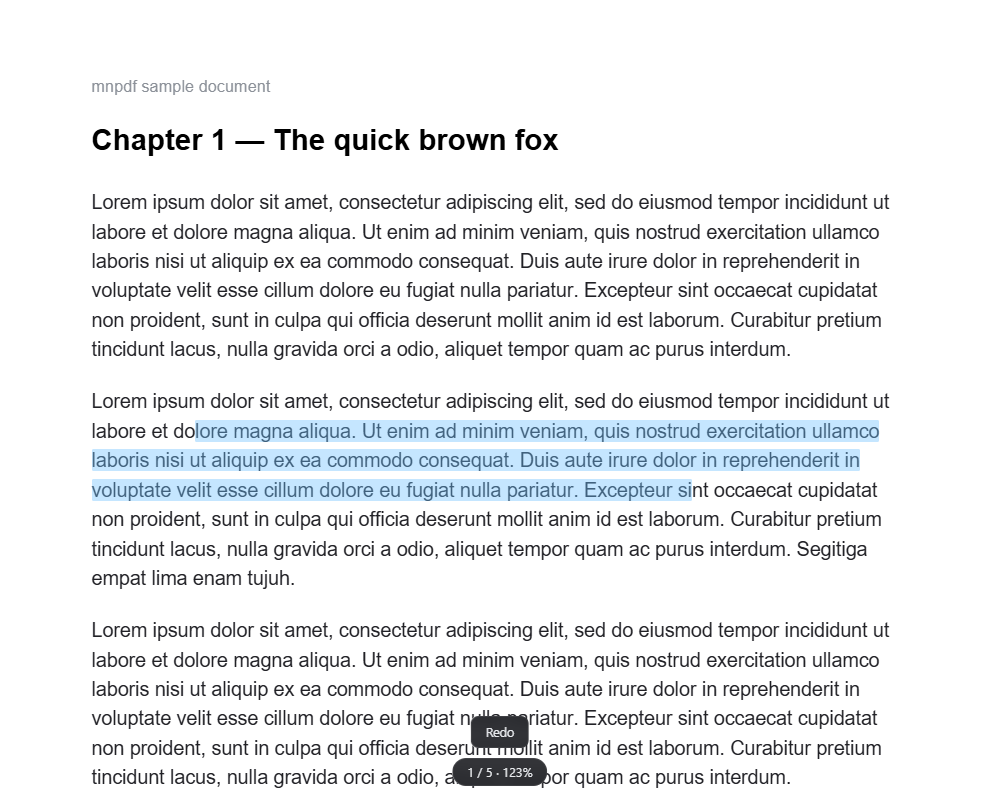
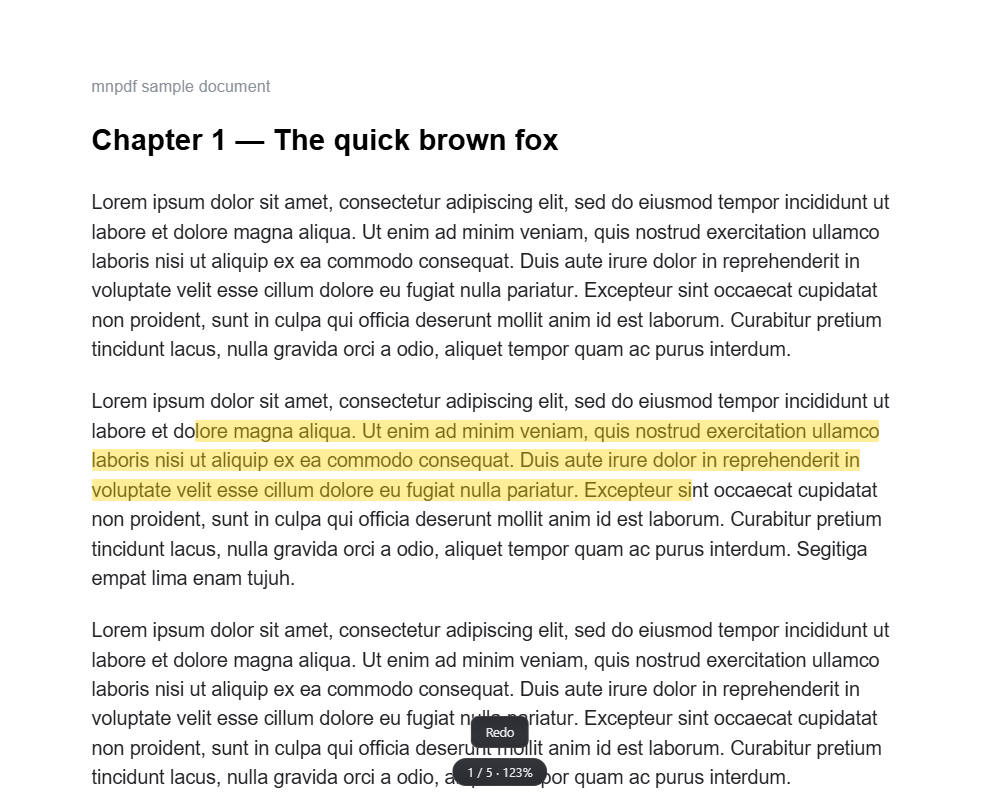
v0.8: drag-release applies instant highlight; recolor/copy/delete menu on highlights; neutral gray selection (distinct from highlights); menus scroll-cap so Quit is always reachable

Changed region(s): [[0.093, 0.5, 0.899, 0.625]]

diff --git a/src/main.js b/src/main.js
@@ -48,17 +48,26 @@ function menuGeneral(e) {
 }
 
 function menuForSelection(e, info) {
+  // only reachable for double-click/keyboard selections — plain drags turn into
+  // highlights instantly on release
   showMenu(e.clientX, e.clientY, [
     { label: 'Highlight', swatches: annos.HL_COLORS, fn: (c) => annos.addHighlight(info, c) },
     { label: 'Copy text', hint: 'Ctrl+C', fn: () => { annos.copyText(info.text); toast('Copied'); } },
   ]);
 }
 
-function menuForPage(e, wrapEl) {
-  const i = +wrapEl.dataset.i;
-  const wr = wrapEl.getBoundingClientRect();
-  const vx = e.clientX - wr.left;
-  const vy = e.clientY - wr.top;
+function menuForHighlight(e, hl) {
+  showMenu(e.clientX, e.clientY, [
+    { label: 'Recolor', swatches: annos.HL_COLORS, fn: (c) => annos.recolorHighlight(hl.id, c) },
+    ...(hl.text ? [{ label: 'Copy text', fn: () => { annos.copyText(hl.text); toast('Copied'); } }] : []),
+    { label: 'Delete highlight', danger: true, fn: () => annos.deleteAnn(hl.id) },
+    'sep',
+    { label: 'Undo', hint: 'Ctrl+Z', fn: cmd.undoCmd },
+    { label: 'Redo', hint: 'Ctrl+Y', fn: cmd.redoCmd },
+  ]);
+}
+
+function menuForPage(e, i, vx, vy) {
   const hl = annos.highlightAt(i, vx, vy);
   const items = [];
   if (hl) items.push({ label: 'Delete highlight', danger: true, fn: () => annos.deleteAnn(hl.id) });
@@ -105,10 +114,16 @@ function initContextMenu() {
         del: cmd.deletePage,
       }));
     }
-    const sel = annos.preferredSelection();
-    if (sel) return menuForSelection(e, sel);
     const wrapEl = e.target.closest?.('.pagewrap');
-    if (wrapEl && S.pdf) return menuForPage(e, wrapEl);
+    if (wrapEl && S.pdf) {
+      const i = +wrapEl.dataset.i;
+      const box = wrapEl.getBoundingClientRect();
+      const hl = annos.highlightAt(i, e.clientX - box.left, e.clientY - box.top);
+      if (hl) return menuForHighlight(e, hl);
+      const sel = annos.selectionInfo() || annos.lastSelection();
+      if (sel) return menuForSelection(e, sel);
+      return menuForPage(e, i, e.clientX - box.left, e.clientY - box.top);
+    }
     menuGeneral(e);
   });
 }

diff --git a/src/annos.js b/src/annos.js
@@ -169,7 +169,20 @@ function initManualSelection() {
     },
     true,
   );
-  document.addEventListener('mouseup', () => { selAnchor = null; }, true);
+  document.addEventListener(
+    'mouseup',
+    () => {
+      const dragging = !!selAnchor;
+      selAnchor = null;
+      // release = instant highlight in the current color (the selection itself
+      // converts; no second step). Double-click word selections (which never
+      // set the manual anchor) stay as selections for native copy.
+      if (!dragging) return;
+      const info = selectionInfo();
+      if (info) addHighlight(info, S.hlColor);
+    },
+    true,
+  );
   window.addEventListener('blur', () => { selAnchor = null; });
 }
 
@@ -273,7 +286,7 @@ function mergeRects(rects) {
 
 export function addHighlight(info, color) {
   S.hlColor = color;
-  const ann = newHighlight(info.srcIdx, mergeRects(info.rects), color);
+  const ann = newHighlight(info.srcIdx, mergeRects(info.rects), color, info.text || '');
   const replaced = S.anns.filter(
     (a) =>
       a.type === 'hl' && a.page === info.srcIdx &&
@@ -282,6 +295,13 @@ export function addHighlight(info, color) {
   if (replaced.length) pushOp({ kind: 'hlreplace', ann, replaced });
   else pushOp({ kind: 'add', ann });
   window.getSelection()?.removeAllRanges();
+}
+
+export function recolorHighlight(id, color) {
+  const a = S.anns.find((x) => x.id === id);
+  if (!a || a.type !== 'hl' || a.color === color) return;
+  S.hlColor = color;
+  pushOp({ kind: 'recolor', id, from: a.color, to: color });
 }
 
 // Windows Chromium clears the text selection on right mousedown, before the

diff --git a/src/state.js b/src/state.js
@@ -94,14 +94,19 @@ function applyOp(op, fwd) {
       if (a) a.text = fwd ? op.to : op.from;
       break;
     }
+    case 'recolor': {
+      const a = S.anns.find((x) => x.id === op.id);
+      if (a) a.color = fwd ? op.to : op.from;
+      break;
+    }
     case 'pages':
       S.pageList = (fwd ? op.after : op.before).map((p) => ({ ...p }));
       break;
   }
 }
 
-export function newHighlight(srcIdx, rects, color) {
-  return { id: uid(), type: 'hl', page: srcIdx, rects, color };
+export function newHighlight(srcIdx, rects, color, text = '') {
+  return { id: uid(), type: 'hl', page: srcIdx, rects, color, text };
 }
 
 export function newPin(srcIdx, x, y) {

diff --git a/src/style.css b/src/style.css
@@ -195,9 +195,9 @@ html, body {
   cursor: default;
 }
 
+/* neutral gray: text selection must never look like a highlight */
 .textLayer ::selection {
-  background: rgba(0 0 255 / 0.25);
-  background: color-mix(in srgb, AccentColor, transparent 75%);
+  background: rgba(148, 152, 162, 0.45);
 }
 
 .textLayer br ::selection { background: transparent; }
@@ -303,6 +303,8 @@ html, body {
   position: fixed;
   z-index: 100;
   min-width: 190px;
+  max-height: calc(100vh - 16px);
+  overflow-y: auto;
   background: var(--glass);
   color: var(--glass-fg);
   border: 1px solid var(--glass-border);
